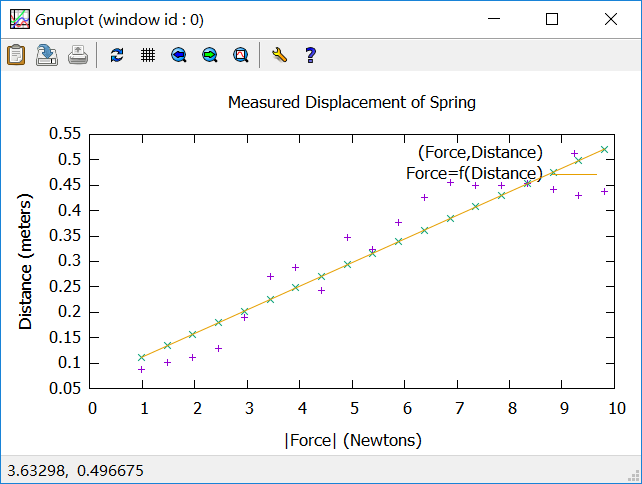
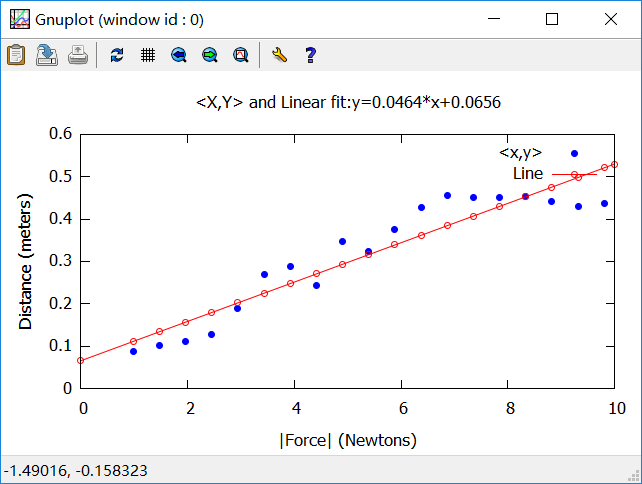
your desc of the commit

diff --git a/src/fitlinear_plot.c b/src/fitlinear_plot.c
@@ -59,26 +59,49 @@ if ((fp = fopen("./data/springdata.csv", "at+")) != NULL)
   printf ("sumsq = %g\n", sumsq);
   printf ("\n"); 
 
-
-
   //plot
-  FILE *pipe = popen("gnuplot -persist", "w");  // Open a pipe to gnuplot
-
-  if (pipe) {   // If gnuplot is found
-    fprintf(pipe, "d(x) = k1+k2*x\n");
-    fprintf(pipe, "set datafile separator ','\n"); //datafile separator ','
-    fprintf(pipe, "fit d(x) './data/springdata.csv' using ($2*9.81):1 via k1,k2\n");
-    fprintf(pipe, "set term wx\n");         // set the terminal               
-    fprintf(pipe, "set xlabel '|Force| (Newtons)'\n");
-    fprintf(pipe, "set ylabel 'Distance (meters)'\n");
-    fprintf(pipe, "set title 'Measured Displacement of Spring'\n");
-    fprintf(pipe, "plot './data/springdata.csv' using  ($2*9.81):1 title '(Force,Distance)',\
-    './data/springdata.csv' using ($2*9.81):(d($2*9.81)) title '',\
-    './data/springdata.csv' using ($2*9.81):(d($2*9.81))  title 'Force=f(Distance)' with line ls 12\n");
-
-    fflush(pipe); //flush pipe
-    fprintf(pipe,"exit \n");   // exit gnuplot
-    pclose(pipe);    //close pipe
+  FILE *pipe = popen("gnuplot -persist", "w"); // Open a pipe to gnuplot
+  if (pipe) // If gnuplot is found
+  { 
+     fprintf(pipe, "set term wx\n");         // set the terminal
+     fprintf(pipe, "set xlabel '|Force| (Newtons)'\n");
+     fprintf(pipe, "set ylabel 'Distance (meters)'\n");
+     fprintf(pipe, "set xrange [0:10]\n");
+     fprintf(pipe, "set yrange [0:0.6]\n");
+     fprintf(pipe, "set title '<X,Y> and Linear fit:y=%.4f*x+%.4f'\n",c1,c0);
+      
+     /* In this case, the datafile is written directly to the gnuplot pipe with no need for a temporary file.
+           The special filename '-' specifies that the data are inline; i.e., they follow the command.
+        1 sending gnuplot the plot '-' command 
+        2 followed by data points 
+        3 followed by the letter "e" 
+     */
+    
+     // 1 sending gnuplot the plot '-' command
+     fprintf(pipe, "plot '-' title '<x,y>' with points  pt 7 lc rgb 'blue',\
+                         '-' title 'Line' with  linespoints  pt  6 lc rgb 'red'\n");
+     
+     // 2 followed by data points: <x,y>
+     for (int i = 0; i < n; i++)
+     {
+        fprintf(pipe, "%lf %lf\n", x[i], y[i]);
+     }
+     // 3 followed by the letter "e" 
+     fprintf(pipe, "e");
+     
+     // linear fit
+     fprintf(pipe,"\n"); // start a new draw item
+     fprintf(pipe, "%lf %lf\n", 0.0, c0+c1*0,0);
+     for (int i = 0; i < n; i++)
+     {
+        fprintf(pipe, "%lf %lf\n", x[i], c0+c1*x[i]);
+     }
+     fprintf(pipe, "%lf %lf\n", 10.0,c0+c1*10,0);
+     fprintf(pipe, "e");
+      
+     fflush(pipe);
+     fprintf(pipe, "exit \n"); // exit gnuplot
+     pclose(pipe);             //close pipe
   }
   return 0;
 };

diff --git a/README.md b/README.md
@@ -65,25 +65,45 @@ printf ("\n");
 最后使用pipe连接Gnuplot输出图像，代码如下：
 ```C
 //plot
-FILE *pipe = popen("gnuplot -persist", "w");  // Open a pipe to gnuplot
-
-if (pipe) 
-{   
-// If gnuplot is found
-fprintf(pipe, "d(x) = k1+k2*x\n");
-fprintf(pipe, "set datafile separator ','\n"); //datafile separator ','
-fprintf(pipe, "fit d(x) './data/springdata.csv' using ($2*9.81):1 via k1,k2\n");
-fprintf(pipe, "set term wx\n");         // set the terminal               
+FILE *pipe = popen("gnuplot -persist", "w"); // Open a pipe to gnuplot
+if (pipe) // If gnuplot is found
+{ 
+fprintf(pipe, "set term wx\n");         // set the terminal
 fprintf(pipe, "set xlabel '|Force| (Newtons)'\n");
 fprintf(pipe, "set ylabel 'Distance (meters)'\n");
-fprintf(pipe, "set title 'Measured Displacement of Spring'\n");
-fprintf(pipe, "plot './data/springdata.csv' using  ($2*9.81):1 title '(Force,Distance)',\
-'./data/springdata.csv' using ($2*9.81):(d($2*9.81)) title '',\
-'./data/springdata.csv' using ($2*9.81):(d($2*9.81))  title 'Force=f(Distance)' with line ls 12\n");
-
-fflush(pipe); //flush pipe
-fprintf(pipe,"exit \n");   // exit gnuplot
-pclose(pipe);    //close pipe
+fprintf(pipe, "set xrange [0:10]\n");
+fprintf(pipe, "set yrange [0:0.6]\n");
+fprintf(pipe, "set title '<X,Y> and Linear fit:y=%.4f*x+%.4f'\n",c1,c0);
+      
+/* In this case, the datafile is written directly to the gnuplot pipe with no need for a temporary file.
+           The special filename '-' specifies that the data are inline; i.e., they follow the command.
+        1 sending gnuplot the plot '-' command 
+        2 followed by data points 
+        3 followed by the letter "e" 
+     */
+    
+// 1 sending gnuplot the plot '-' command
+fprintf(pipe, "plot '-' title '<x,y>' with points  pt 7 lc rgb 'blue',\
+        '-' title 'Line' with  linespoints  pt  6 lc rgb 'red'\n");
+     
+// 2 followed by data points: <x,y>
+for (int i = 0; i < n; i++)
+{
+fprintf(pipe, "%lf %lf\n", x[i], y[i]);
+}
+// 3 followed by the letter "e" 
+fprintf(pipe,"\n"); // start a new draw item
+fprintf(pipe, "%lf %lf\n", 0.0, c0+c1*0,0);
+for (int i = 0; i < n; i++)
+{
+fprintf(pipe, "%lf %lf\n", x[i], c0+c1*x[i]);
+}
+fprintf(pipe, "%lf %lf\n", 10.0,c0+c1*10,0);
+fprintf(pipe, "e");
+      
+fflush(pipe);
+fprintf(pipe, "exit \n"); // exit gnuplot
+pclose(pipe);             //close pipe
 }
 ```
 
